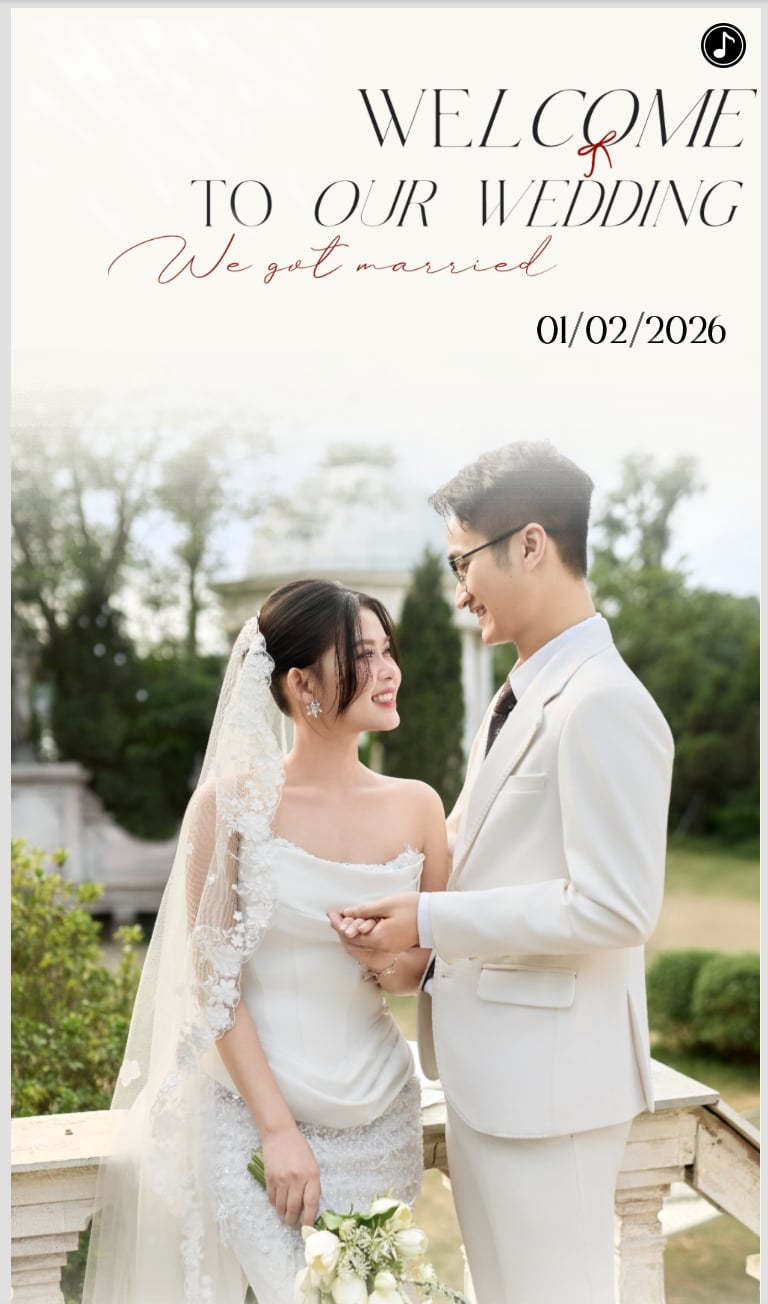
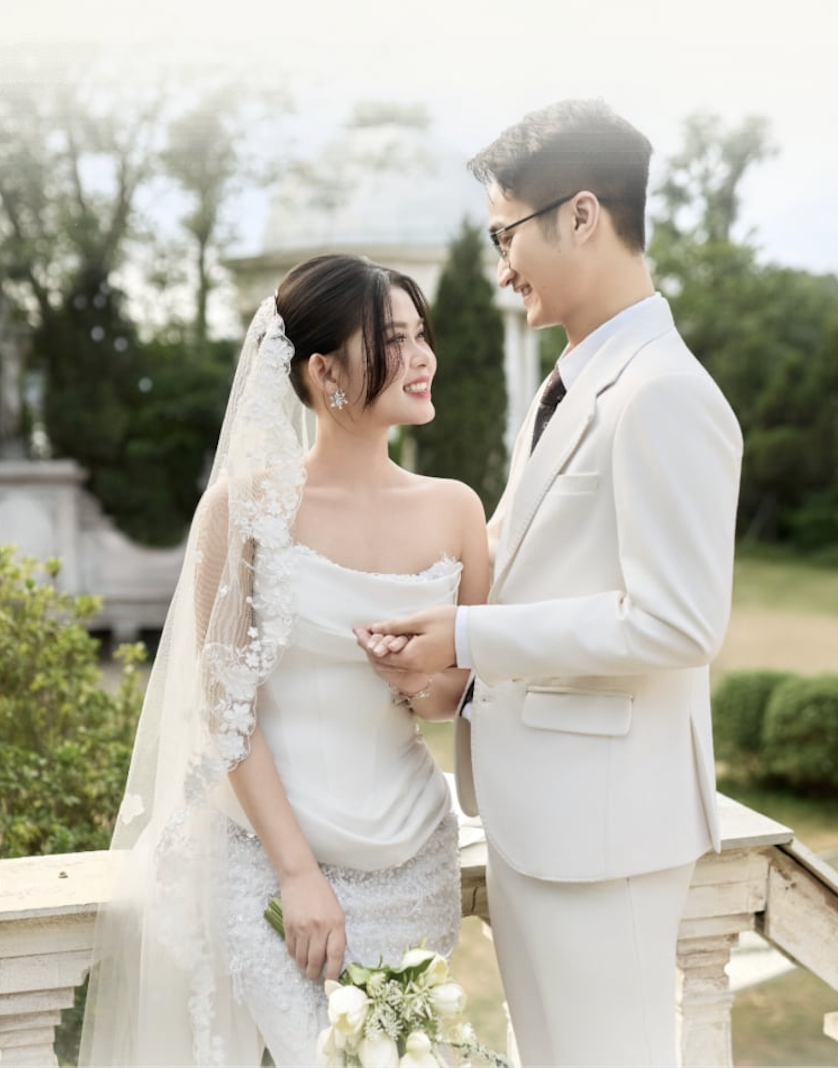
update

diff --git a/index.html b/index.html
@@ -4542,17 +4542,19 @@
     "scriptLoader": []
 }</script>
 <script>
-    const observer = new MutationObserver(() => {
-        const el = document.querySelector("#jsx-2074202128");
-        if (el) {
-            el.removeAttribute("id");
-            observer.disconnect();
-        }
-    });
+    window.addEventListener("load", () => {
+        const el = document.querySelector(
+            '#root-page-container > div:nth-child(1) > div > div:nth-child(3) > div > div > div > div'
+        );
 
-    observer.observe(document.body, {
-        childList: true,
-        subtree: true,
+        if (el) {
+            el.style.backgroundImage =
+                'url("https://github.com/truongbo17/truongbo17.github.io/blob/main/cbe1a89d-01d8-4466-bac4-073ab4c25b3e.jpeg?raw=true")';
+        }
+        ["blessing-box", "cinelove-toolbar"].forEach(id => {
+            const el = document.getElementById(id);
+            if (el) el.remove();
+        });
     });
 </script>
 </body>
